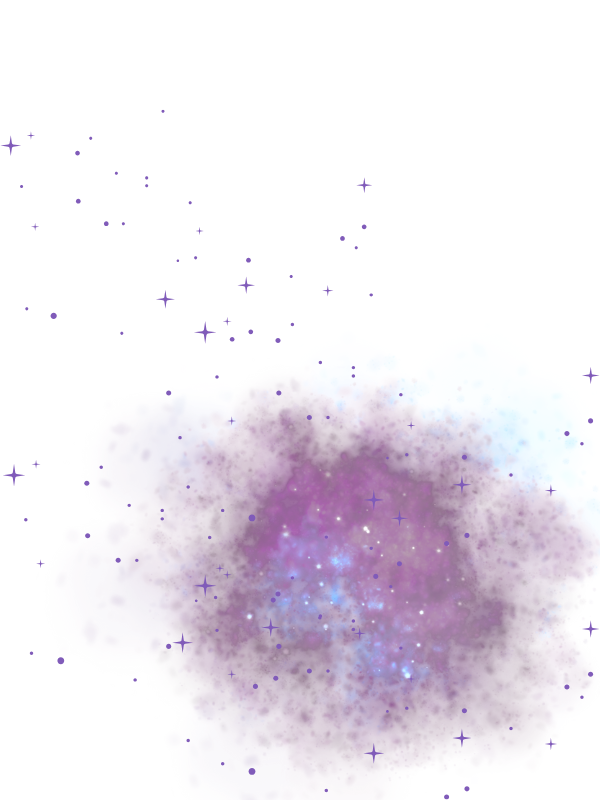
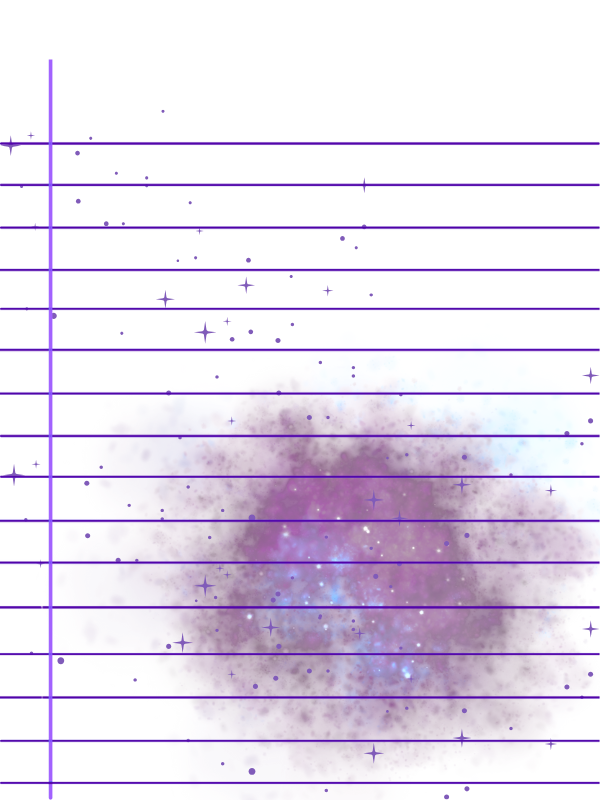
Merging page bg and app background into one. The background image and the ruled lines are combined.

diff --git a/ui_main.py b/ui_main.py
@@ -18,7 +18,6 @@ class ChecklistUI:
         # image storage
         self.base_tabbar_img = None
         self.base_app_bg_img = None
-        self.base_page_bg_img = None
         self.checkbox_unchecked = None
         self.checkbox_checked = None
         self.icon_min = None
@@ -71,15 +70,15 @@ class ChecklistUI:
         if p.exists():
             self.base_tabbar_img = Image.open(p).convert("RGBA")
 
-        # full background (galaxy)
-        p = dbg("app_background.png")
+        # full window background (merged galaxy + page)
+        p = dbg("background.png")      # <--- new merged image
         if p.exists():
             self.base_app_bg_img = Image.open(p).convert("RGBA")
 
-        # page background (notebook)
-        p = dbg("page_bg.png")
-        if p.exists():
-            self.base_page_bg_img = Image.open(p).convert("RGBA")
+        # we no longer need base_page_bg_img
+        self.base_page_bg_img = None
+
+        # checkboxes and icons stay the same ...
 
         # checkboxes
         p_unchecked = dbg("checkbox_unchecked.png")
@@ -204,44 +203,27 @@ class ChecklistUI:
             )
     # ---------- page + backgrounds ----------
     def _build_page(self):
-        self.outer = tk.Frame(self.root, bg=PURPLE)
+        self.outer = tk.Frame(self.root, bg=PURPLE, bd=0, highlightthickness=0)
         self.outer.pack(fill="both", expand=True)
 
-        # label that will show the galaxy background
-        self.outer_bg_label = tk.Label(self.outer, bg=PURPLE)
+        # single background image for the whole app
+        self.outer_bg_label = tk.Label(self.outer, bg=PURPLE, bd=0, highlightthickness=0)
         self.outer_bg_label.place(relx=0, rely=0, relwidth=1, relheight=1)
 
-        self.page_container = tk.Frame(self.outer, bg=PURPLE, padx=2, pady=2)
-        self.page_container.pack(fill="both", expand=True)
-
-        self.page = tk.Frame(self.page_container, bg=PAGE_BG_FALLBACK, bd=0, highlightthickness=0)
-        self.page.pack(fill="both", expand=True)
-
-        # label that will show the notebook page background
-        self.page_bg_label = tk.Label(self.page, bg=PAGE_BG_FALLBACK)
-        self.page_bg_label.place(relx=0, rely=0, relwidth=1, relheight=1)
+        # content container on top (no colored border)
+        self.page = tk.Frame(self.outer, bg="", bd=0, highlightthickness=0)
+        self.page.pack(fill="both", expand=True, padx=0, pady=0)
 
 
     def _render_backgrounds(self):
-        # full app background (galaxy)
         if self.base_app_bg_img is not None:
             w = max(self.outer.winfo_width(), 1)
             h = max(self.outer.winfo_height(), 1)
             resized = self.base_app_bg_img.resize((w, h), Image.BILINEAR)
-            self.images["app_bg_scaled"] = ImageTk.PhotoImage(resized)
-            self.outer_bg_label.configure(image=self.images["app_bg_scaled"])
+            self.images["background_scaled"] = ImageTk.PhotoImage(resized)
+            self.outer_bg_label.configure(image=self.images["background_scaled"])
         else:
             self.outer_bg_label.configure(image="", bg=PURPLE)
-
-        # page notebook background
-        if self.base_page_bg_img is not None:
-            w = max(self.page.winfo_width(), 1)
-            h = max(self.page.winfo_height(), 1)
-            resized = self.base_page_bg_img.resize((w, h), Image.BILINEAR)
-            self.images["page_bg_scaled"] = ImageTk.PhotoImage(resized)
-            self.page_bg_label.configure(image=self.images["page_bg_scaled"])
-        else:
-            self.page_bg_label.configure(image="", bg=PAGE_BG_FALLBACK)
 
     # ---------- title ----------
     def _build_title(self):
